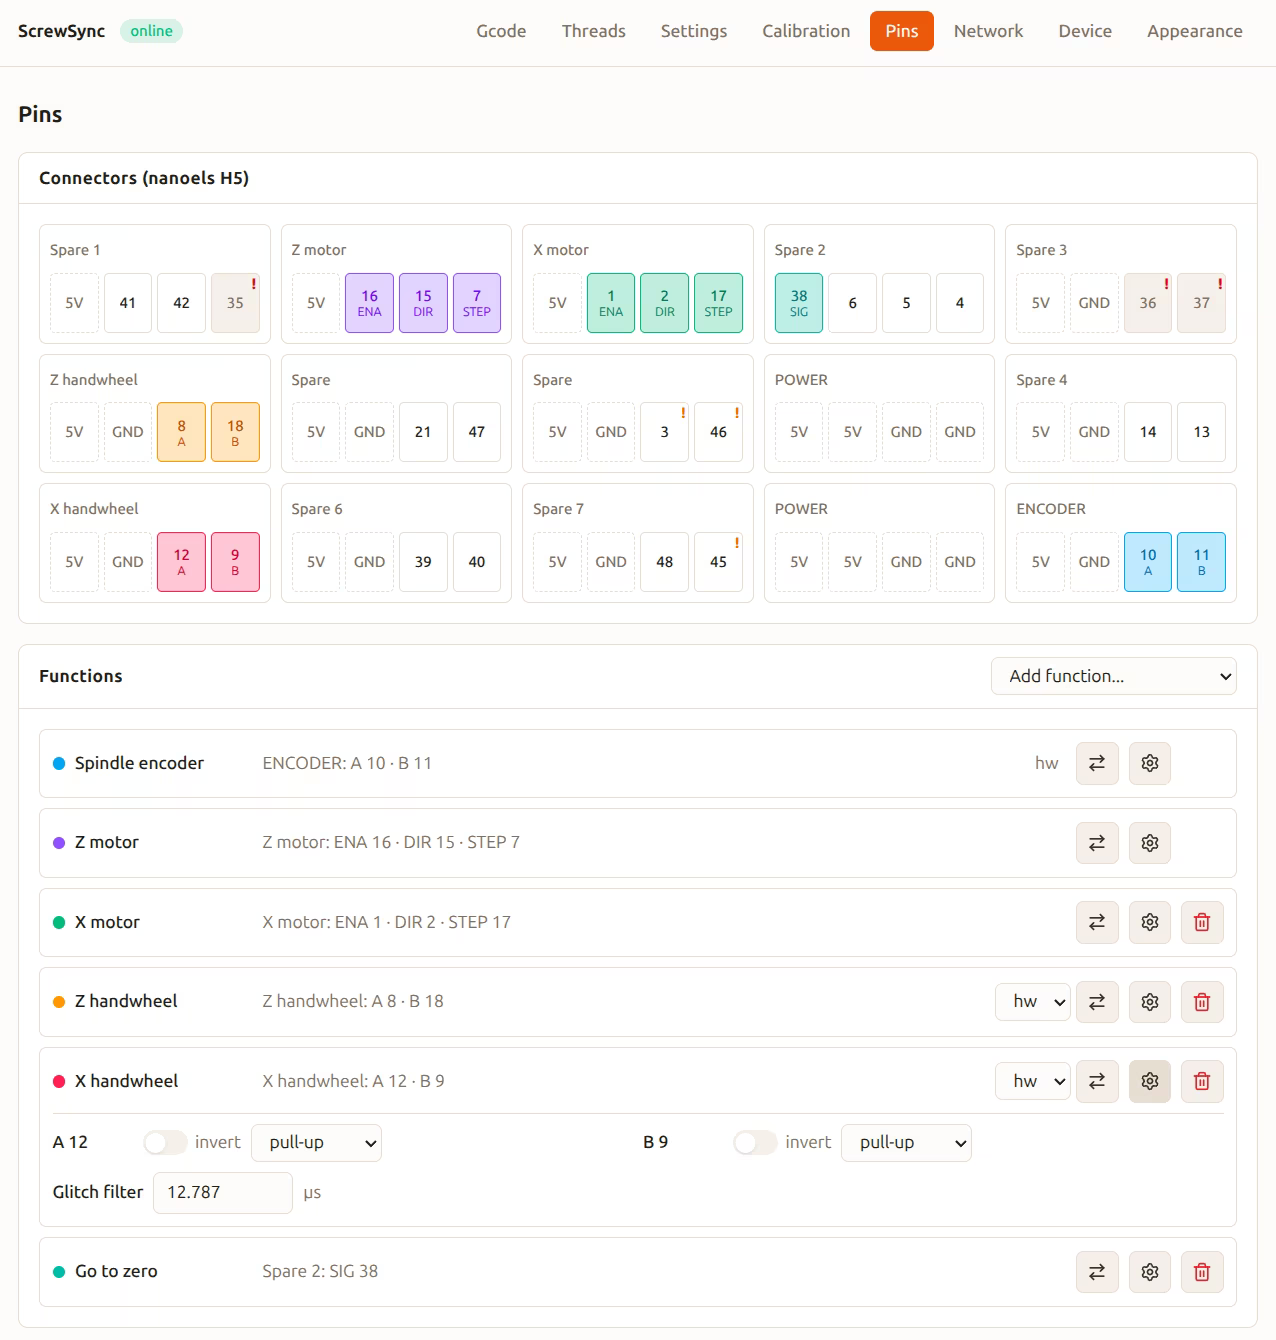
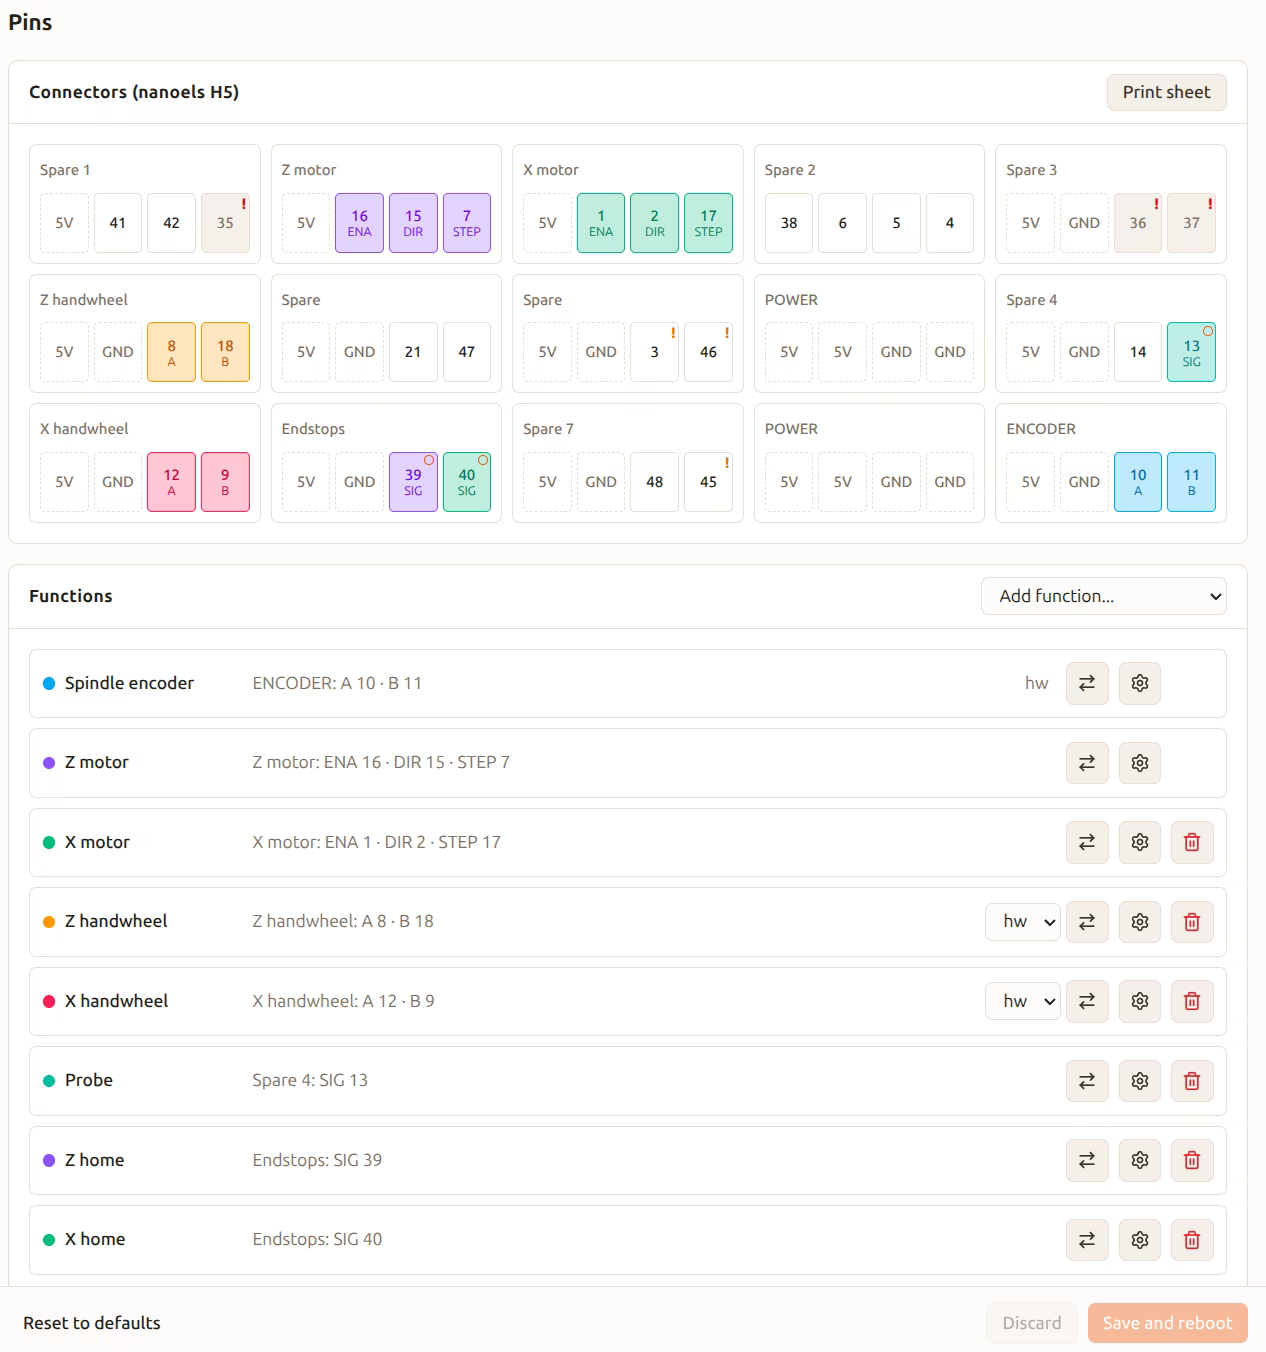
Docs: per-target wiring, MDI console, print sheet, new screenshots

diff --git a/docs/protocol.md b/docs/protocol.md
@@ -93,13 +93,25 @@ replies; see `docs/screen.md`.
 ## MDI
 
 - A line that starts with G, M, T, F, X or Z, then a digit, sign or dot,
-  is G-code (LinuxCNC dialect), e.g. `G91 G0 Z-1`. Reply: `ok` when queued,
+  or with `#` or `(`, is G-code (LinuxCNC dialect), e.g. `G91 G0 Z-1`,
+  `#<depth> = 0.5`, `(PRINT, hi)`. Reply: `ok free=<n> steps=<k> done=<d>` when queued,
   else `err <reason>`.
 - The modal state (G90/G91, G20/G21, F, motion mode) stays between lines.
   When the queue is empty, the next line starts from the current position.
 - `@` before a line marks a UI line (display, switches, web buttons). It
   runs from a fresh modal state and does not change the MDI one, so it
   gives every mode it needs, e.g. `@G21 G91 G0 Z1`.
+- The reply to an accepted line is `ok free=<n> steps=<k> done=<d>`:
+  `n` is the number of free steps in the MDI queue, `k` the steps this
+  line queued (a PRINT is one step) and `d` the count of completed MDI
+  steps when the line was queued. On WebSocket it is
+  `{"type":"reply","msg":"free=<n> steps=<k> done=<d>"}`. The line is done
+  when the completed count reaches `d` plus the steps queued before it
+  and `k`. One line can make several steps; a line that does not fit gives
+  `err queue full`. The `status` push carries `mdiFree` and `mdiDone` (the
+  completed count; a stop or failure does not count the dropped steps)
+  and goes out when either changes. A client sends the next line only
+  while it has free steps.
 - Lines queue while a move runs; a full queue gives `err queue full`.
   Refused while a mode runs. `stop` stops both axes and clears the queue.
 - MDI owns both axes while it moves; a jog stops it.
@@ -155,7 +167,11 @@ replies; see `docs/screen.md`.
     `text` as the error. `(PRINT, text)`: each `#n` / `#<name>` in `text`
     is replaced by its value; the line is a push, `print <text>` on the
     serial console, `{"type":"print","msg":"<text>"}` on the WebSocket.
-    Jobs only.
+    A parameter that cannot be read (`unsupported parameter`, or
+    `undefined parameter` for an unset name) is an error: the job stops at
+    that line, an MDI line is refused. `MSG` and `ABORT` are for jobs only.
+    In MDI, `PRINT` takes one queue slot, takes the values when the line
+    is accepted and prints when the moves before it end.
 - Lines run at execution time: a line is read after the moves before it
   end, so a G38 result is known to the next line.
 - `o<name> call` finds a sub in the same file, then in the program, then
@@ -317,8 +333,10 @@ right after any command changes that domain:
   mode, `job` (`phase`, `pass`, `passes`), `feedOverride` (percent),
   `error` (why the last job ended
   on its own), `params` (the current mode's `name=value ...`) and
-  `probeContact` (the live probe input state), `homing` (homing runs) and
-  `wcs` (the active system, `"G54"`–`"G59"`). Each axis object has `homed`.
+  `probeContact` (the live probe input state), `homing` (homing runs),
+  `wcs` (the active system, `"G54"`–`"G59"`), `mdiFree` (free steps in
+  the MDI queue) and `mdiDone` (completed MDI steps). Each axis object
+  has `homed`.
 - `{"type":"capabilities","has_x_motor":bool,"has_endstops":bool,"has_probe":bool}`
   -- sent once on connect, same values as `GET /capabilities`.
 - `{"type":"inputs","pins":{"<gpio>":0|1,...}}` -- raw level of each sampled

diff --git a/docs/targets/nanoels-h5.md b/docs/targets/nanoels-h5.md
@@ -1,0 +1,45 @@
+# nanoels H5
+
+Target `nanoels-h5-nextion-5in`: the
+[nanoels](https://github.com/kachurovskiy/nanoels) H5 board with its 5"
+Nextion display. Parts: the
+[nanoels H5 parts list](https://github.com/kachurovskiy/nanoels/tree/main/h5#parts-list).
+
+## Connectors
+
+ScrewSync runs on unmodified nanoels H5 hardware, but several cables plug
+into different connectors than the labels on the case say.
+
+The table is laid out like the connectors on the back of the case:
+
+|       |             |             |       |         |
+|-------|-------------|-------------|-------|---------|
+| -     | Z motor     | X motor     | -     | -       |
+| PROBE | Z handwheel | X handwheel | -     | -       |
+| -     | -           | -           | POWER | ENCODER |
+
+* **PROBE** (optional): - GND SIG -
+* **Z motor**: 5V, ENA, DIR, STEP
+* **Z handwheel** (optional): 5V, GND, B, A
+* **X motor** (optional): 5V, ENA, DIR, STEP
+* **X handwheel** (optional): 5V, GND, B, A
+* **ENCODER**: 5V, GND, A, B
+* **POWER**: 5V, 5V, GND, GND
+
+**Why the connections were moved**: the STEP pin of the Z connector is GPIO35, which on
+the ESP32-S3R8 is one of the octal PSRAM data lines, bonded inside the chip
+package. Driving it as a stepper output corrupts the PSRAM bus, which
+breaks Wi-Fi (its driver allocates from PSRAM) with symptoms ranging from
+allocation failures to crashes. So the motors, and their handwheels with
+them, sit one connector to the right, and there is no Y axis.
+
+## Handwheels
+
+The handwheel connectors have B before A. Thus the default map has A and B
+swapped compared with the case labels. If a handwheel turns the wrong way,
+toggle `invertHandwheelZ` or `invertHandwheelX`.
+
+## Display
+
+**Flip the display 180 degrees** so its viewing angles are correct.
+Alternatively, flash `display_180.tft` from the release on the web client.

diff --git a/README.md b/README.md
@@ -33,7 +33,10 @@ board with one screen. Current target: nanoels H5 with a 5" Nextion. See
 - NGC parameters, expressions, O-words and routines stored on the device.
 - MDI: type G-code lines on the web client or the serial console.
 
-<img src="docs/images/web-gcode.png" width="400" />
+<p float="left">
+  <img src="docs/images/web-gcode.png" width="400" />
+  <img src="docs/images/web-mdi.png" width="400" />
+</p>
 
 ### Homing and work coordinates
 
@@ -113,14 +116,14 @@ the rest:
 
 ## Install
 
-It runs on unmodified H5 hardware, but some cables move to other
-connectors. See [docs/install.md](docs/install.md).
+Wiring per target, flashing and first setup:
+[docs/install.md](docs/install.md).
 
 ## Docs
 
 | Doc                                        | What                                    |
 |--------------------------------------------|-----------------------------------------|
-| [Install](docs/install.md)                 | connectors, flashing, first setup       |
+| [Install](docs/install.md)                 | wiring, flashing, first setup           |
 | [Hardware](docs/hardware.md)               | boards, screens, parts and additions    |
 | [Features](docs/features.md)               | everything it does                      |
 | [Manual](docs/manual.md)                   | how to operate it                       |
@@ -146,7 +149,7 @@ Contributions are welcome. See [CONTRIBUTING.md](CONTRIBUTING.md).
 
 ## Credits and license
 
-Built for the [nanoels](https://github.com/kachurovskiy/nanoels) H5 hardware.
+First target: the [nanoels](https://github.com/kachurovskiy/nanoels) H5 hardware.
 ScrewSync is licensed under AGPL-3.0-or-later.
 Third-party notices (icons and fonts) are in [NOTICE.md](NOTICE.md).
 

diff --git a/docs/install.md b/docs/install.md
@@ -2,37 +2,12 @@
 
 ## Hardware
 
-ScrewSync runs on unmodified nanoels H5 hardware, but several cables plug
-into different connectors than the labels on the case say.
+Wire the board as its target doc says:
 
-The table is laid out like the connectors on the back of the case:
+- [nanoels H5](targets/nanoels-h5.md)
 
-|       |             |             |       |         |
-|-------|-------------|-------------|-------|---------|
-| -     | Z motor     | X motor     | -     | -       |
-| PROBE | Z handwheel | X handwheel | -     | -       |
-| -     | -           | -           | POWER | ENCODER |
-
-* **PROBE** (optional): - GND SIG -
-* **Z motor**: 5V, ENA, DIR, STEP
-* **Z handwheel** (optional): 5V, GND, B, A
-* **X motor** (optional): 5V, ENA, DIR, STEP
-* **X handwheel** (optional): 5V, GND, B, A
-* **ENCODER**: 5V, GND, A, B
-* **POWER**: 5V, 5V, GND, GND
-
-**Why the connections were moved**: the STEP pin of the Z connector is GPIO35, which on
-the ESP32-S3R8 is one of the octal PSRAM data lines, bonded inside the chip
-package. Driving it as a stepper output corrupts the PSRAM bus, which
-breaks Wi-Fi (its driver allocates from PSRAM) with symptoms ranging from
-allocation failures to crashes. So the motors, and their handwheels with
-them, sit one connector to the right, and there is no Y axis.
-
-Other hardware notes:
-
-- **Flip the display 180 degrees** so its viewing angles are correct.
-  Alternatively, flash `display_180.tft` from the release on the web client.
-- Probe wiring and probe types: [probe.md](probe.md).
+Parts and optional additions: [hardware.md](hardware.md). Probe wiring
+and probe types: [probe.md](probe.md).
 
 ## Firmware
 

diff --git a/docs/pins.md b/docs/pins.md
@@ -18,6 +18,8 @@ connector pin from the web client, Pins page. No rebuild.
 - You can only save when the machine is idle and the map has no errors.
 - Click a connector name to rename it for your wiring. An empty name sets
   the board's name back.
+- "Print sheet": a printable pin map with your connector names,
+  optionally in colour and with details. Keep it with the machine.
 - The editor hides the functions of a feature that is off (X motor,
   homing, probe). Saving the settings with a feature off removes its
   functions from the saved map. See [manual.md](manual.md#features).
@@ -122,8 +124,7 @@ Each encoder has a filter, in µs:
 - The pin map is part of the device backup. A restore applies it after a
   reboot.
 
-## nanoels H5
+## Targets
 
-The handwheel connectors have B before A. Thus the default map has A and B
-swapped compared with the case labels. If a handwheel turns the wrong way,
-toggle `invertHandwheelZ` or `invertHandwheelX`.
+Board-specific pin notes are in the target docs, for example
+[nanoels H5](targets/nanoels-h5.md#handwheels).

diff --git a/docs/manual.md b/docs/manual.md
@@ -1,6 +1,6 @@
 # Manual
 
-How to operate ScrewSync. For connectors and flashing, see
+How to operate ScrewSync. For wiring and flashing, see
 [install.md](install.md).
 
 ## First setup
@@ -232,6 +232,14 @@ How to operate ScrewSync. For connectors and flashing, see
   (LinuxCNC), e.g. `G91 G0 Z-1`.
   The modes (G90/G91, G20/G21, F) stay between lines. STOP or `stop`
   stops the move and drops the queued lines.
+- Parameter and comment lines work too, e.g. `#<depth> = 0.5` and
+  `(PRINT, depth #<depth>)`. PRINT output shows in the console.
+- On the web client you can paste several lines at once. Each line shows
+  its status on the right: queued, `ok` (green) or the error. Lines are
+  sent as the queue has room.
+- After an error, the rest of the lines are skipped.
+- Stop, estop and motor power go out at once and skip all unfinished
+  lines.
 - `G10 L20 P0 Z0` sets Z zero at the tool. `M110` sets the spindle angle
   to 0.
 

diff --git a/docs/features.md b/docs/features.md
@@ -60,7 +60,8 @@ Multi-pass modes show the phase and pass number, and can skip a pass.
   G10 L20 position setting, work coordinate systems G54–G59 (with home
   switches), G53, and M0/M1 pauses.
 - MDI: G-code lines on the web client or the serial console, with modes
-  kept between lines. G38 probe moves.
+  kept between lines. G38 probe moves. Multiline paste, with a status per
+  line.
 - LinuxCNC NGC: parameters, expressions, O-word subs, conditions and
   loops, G38 results, settings as parameters. Run at execution time.
 - NGC routines stored on the device and called by name, also as a
@@ -120,6 +121,7 @@ Multi-pass modes show the phase and pass number, and can skip a pass.
 - Thread table editor.
 - G-code programs and routines.
 - MDI console.
+- Pin map editor, and a printable pin map sheet.
 - Wi-Fi, as an access point and as a station.
 - Settings backup and restore.
 - Device log viewer.

diff --git a/docs/design.md b/docs/design.md
@@ -2,10 +2,11 @@
 
 ## Hardware
 
-- Target: [nanoels](https://github.com/kachurovskiy/nanoels) H5 hardware.
-  Two separate boards: a generic ESP32-S3 main controller
-  (`esp32-s3-devkitc-1`-class module) and a separate display module, linked
-  over UART. Connector assignments: `docs/install.md`.
+- Boards (`boards/`) and screens (`displays/`) are separate definitions. A
+  target (`targets/`) combines one board with one screen. Targets and
+  their wiring: `docs/hardware.md`, `docs/targets/`.
+- nanoels H5: a generic ESP32-S3 main controller (`esp32-s3-devkitc-1`-class
+  module) and a separate display module, linked over UART.
 - The display is a genuine Nextion Intelligent-series panel running
   Nextion's own closed firmware. It cannot run custom firmware -- see
   `docs/screen.md`.

diff --git a/docs/hardware.md b/docs/hardware.md
@@ -1,14 +1,13 @@
 # Hardware
 
 Boards and screens are separate definitions, and a target combines one
-board with one screen. Current target: nanoels H5 with a 5" Nextion.
+board with one screen.
 
-## nanoels H5
+## Targets
 
-Parts: the
-[nanoels H5 parts list](https://github.com/kachurovskiy/nanoels/tree/main/h5#parts-list).
-Some cables plug into other connectors than on the original firmware. See
-[install.md](install.md).
+| Target                                    | Board      | Screen       |
+|-------------------------------------------|------------|--------------|
+| [nanoels H5](targets/nanoels-h5.md)       | nanoels H5 | 5" Nextion   |
 
 ## Additions
 

diff --git a/AGENTS.md b/AGENTS.md
@@ -9,7 +9,8 @@ a web client.
 - [docs/protocol.md](docs/protocol.md) — command protocol (serial/display/web)
 - [docs/screen.md](docs/screen.md) — display UI design and tooling
 - [docs/manual.md](docs/manual.md) — operator manual
-- [docs/install.md](docs/install.md) — connectors, flashing, first setup
+- [docs/install.md](docs/install.md) — wiring, flashing, first setup
+- [docs/targets/](docs/targets/) — per-target wiring and notes
 - [docs/hardware.md](docs/hardware.md) — boards, screens, parts and additions
 - [docs/features.md](docs/features.md) — full feature list
 - [docs/homing.md](docs/homing.md) — homing cycle, sensors and wiring
